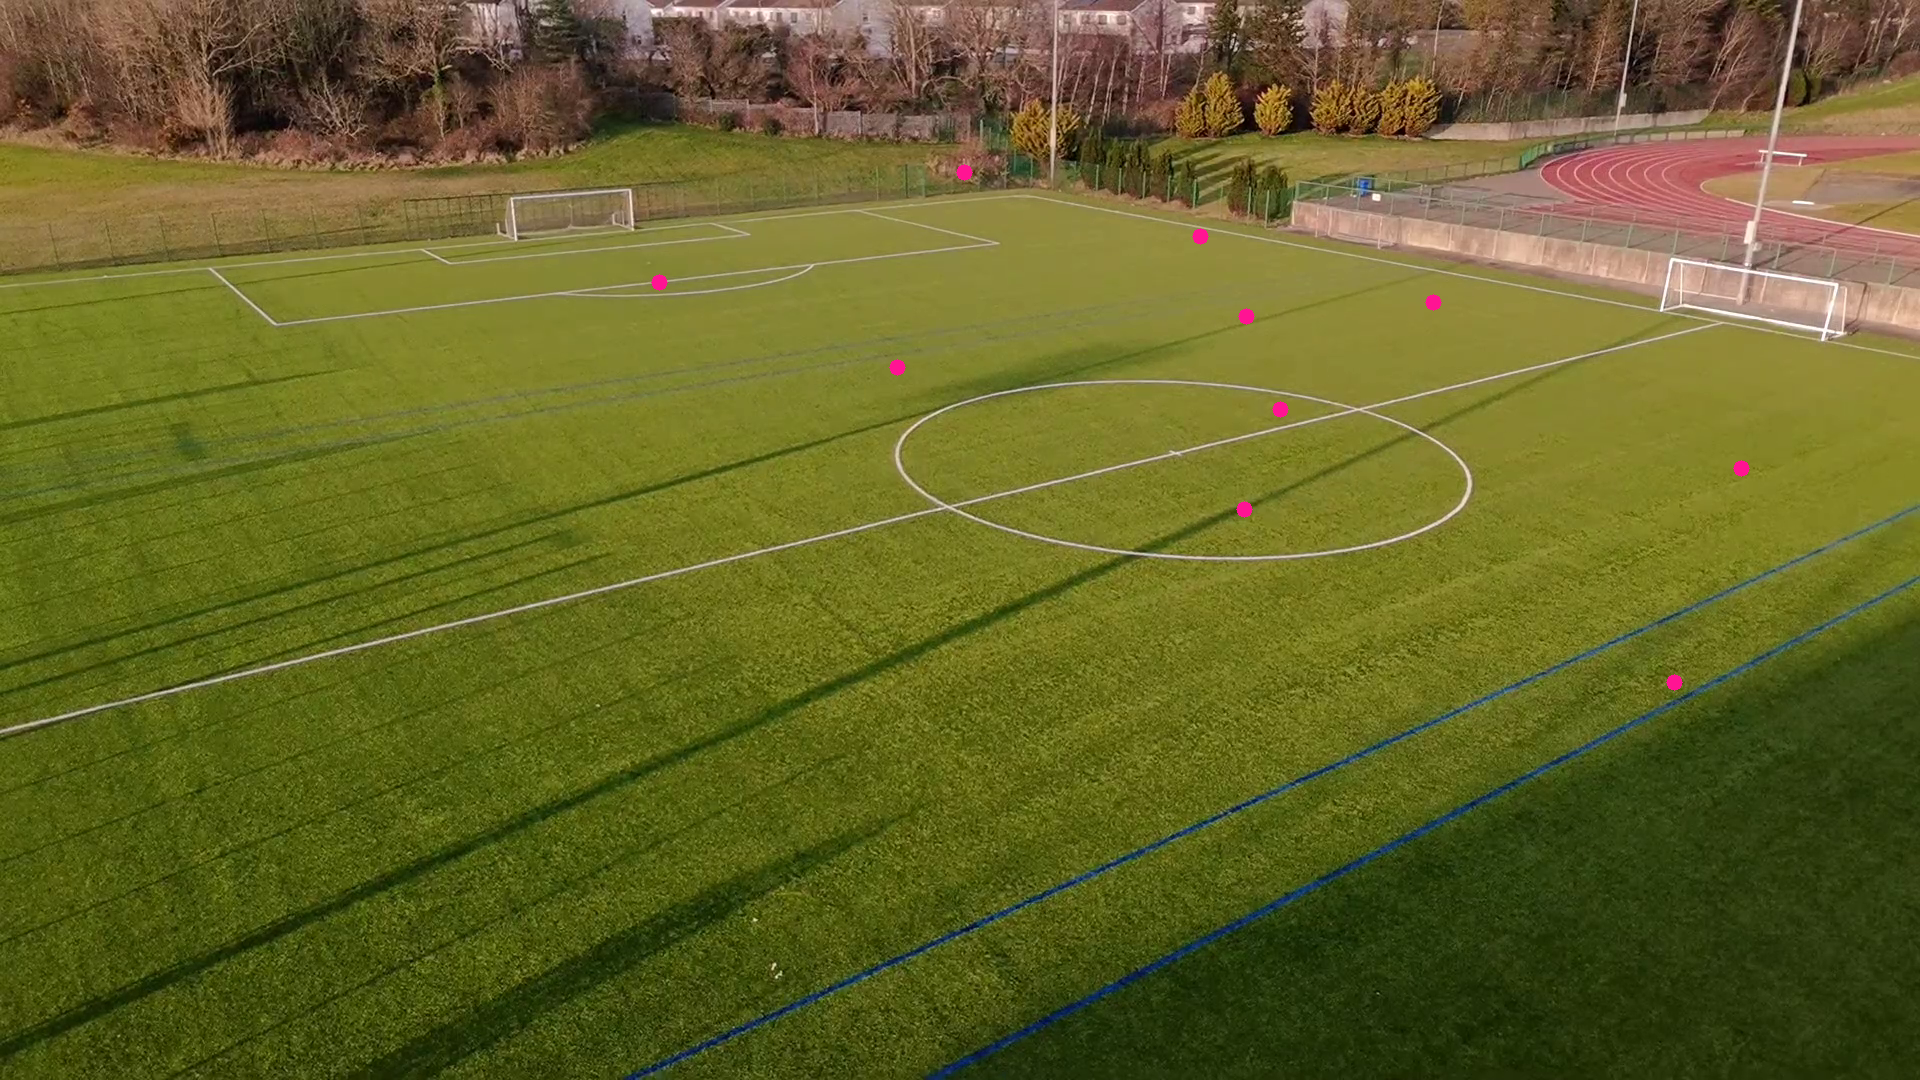
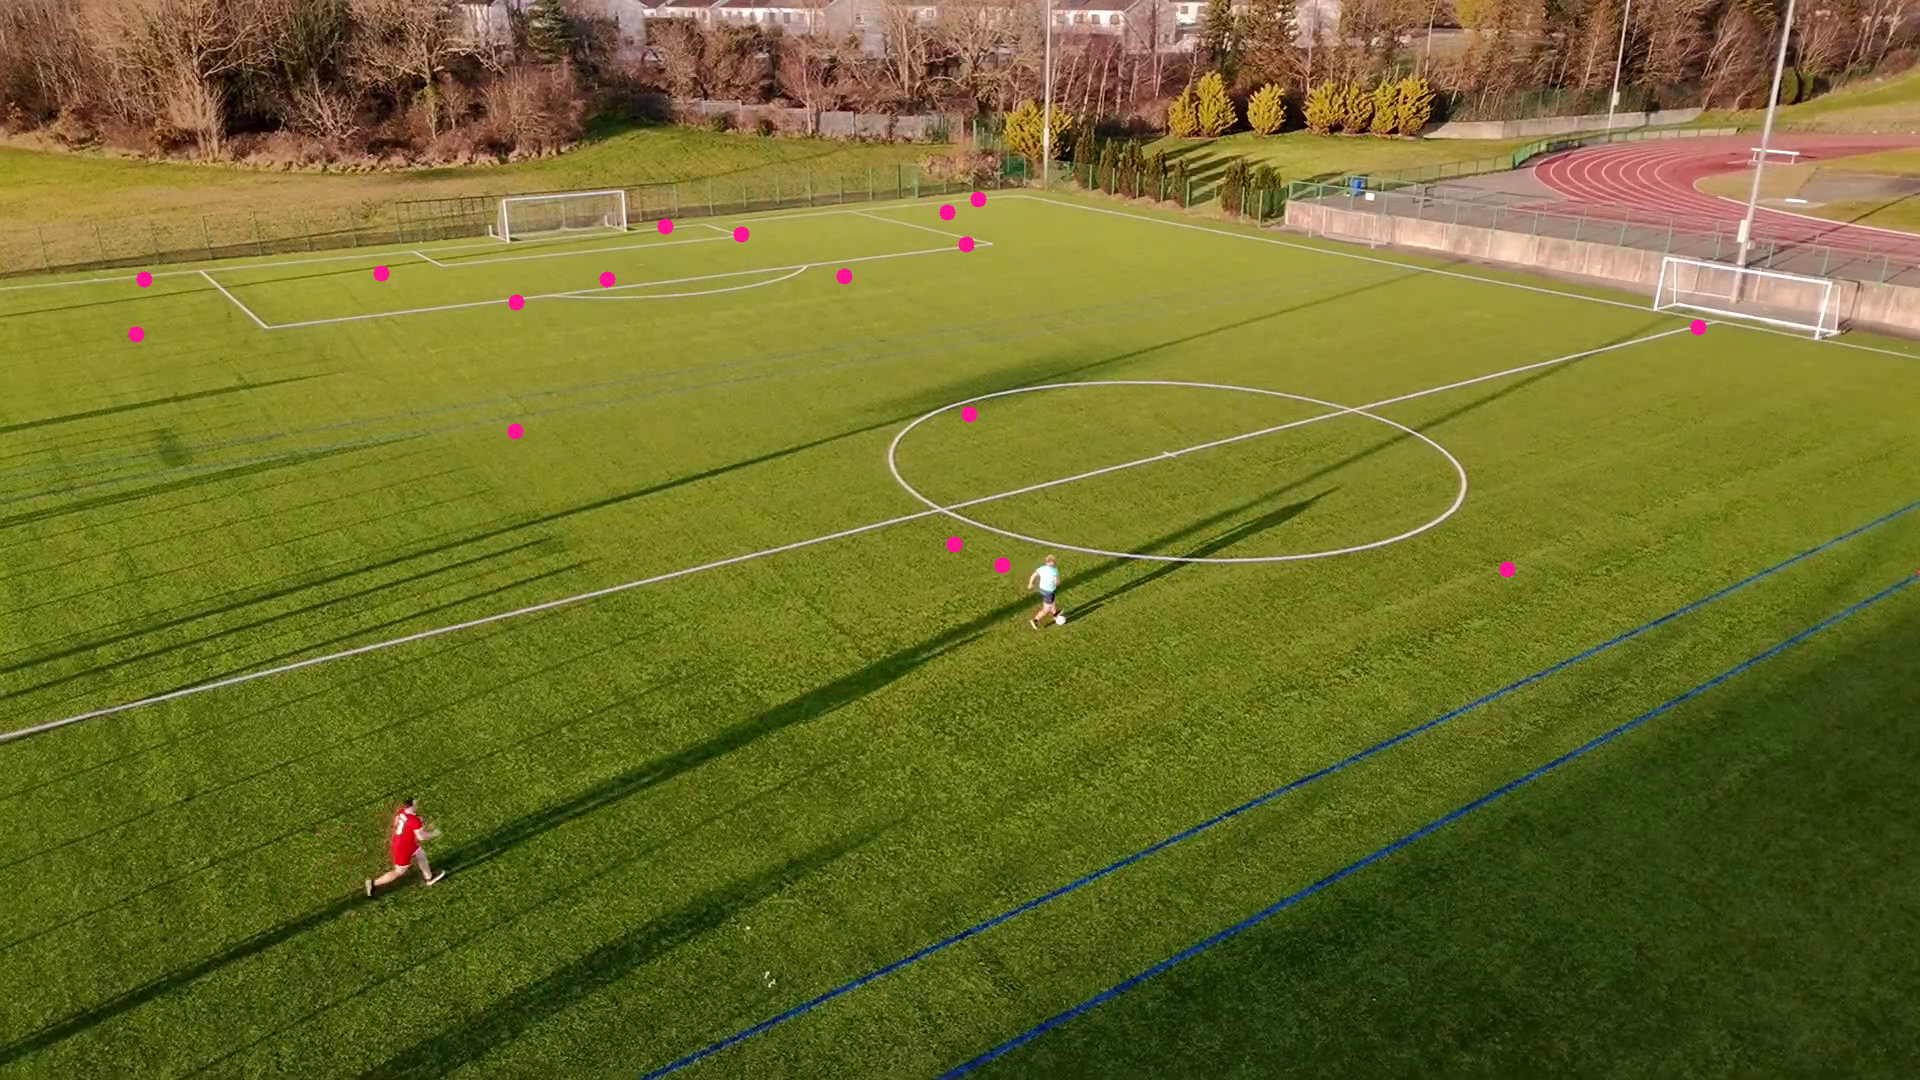
updated models

diff --git a/MSA.py b/MSA.py
@@ -24,7 +24,7 @@ PLAYER_DETECTION_MODEL = get_model(model_id=PLAYER_DETECTION_MODEL_ID, api_key=R
 
 # Initialize field detection model
 ROBOFLOW_API_KEY_FIELD = ROBOFLOW_API_KEY
-FIELD_DETECTION_MODEL_ID = "football-field-detection-f07vi/14"
+FIELD_DETECTION_MODEL_ID = "msa_keypoint_detection/1"
 FIELD_DETECTION_MODEL = get_model(model_id=FIELD_DETECTION_MODEL_ID, api_key=ROBOFLOW_API_KEY_FIELD)
 
 # Additional imports for pitch keypoint detection and projection
@@ -471,11 +471,7 @@ def run_model():
         yolo_thread = threading.Thread(target=yolo_inference, daemon=True)
         yolo_thread.start()
         print("[INFO] YOLO Pose inference started.")
-    elif chosen_model == "rock-paper-scissors-sxsw/14":
-        rps_thread = threading.Thread(target=rps_inference, daemon=True)
-        rps_thread.start()
-        print("[INFO] RPS inference started.")
-    elif chosen_model == "football-players-detection-3zvbc/11":
+    elif chosen_model == "Players detection":
         if football_model is None:
             try:
                 football_model = get_model(model_id=PLAYER_DETECTION_MODEL_ID, api_key=ROBOFLOW_API_KEY)
@@ -629,7 +625,7 @@ btn_stop_stream.grid(row=0, column=1, padx=5)
 model_label = ttk.Label(left_frame, text="Choose Model:")
 model_label.pack(pady=(20, 5))
 model_options = [
-    "football-players-detection-3zvbc/11",
+    "Players detection",
     "YOLO Pose"
 ]
 model_var = tk.StringVar()
